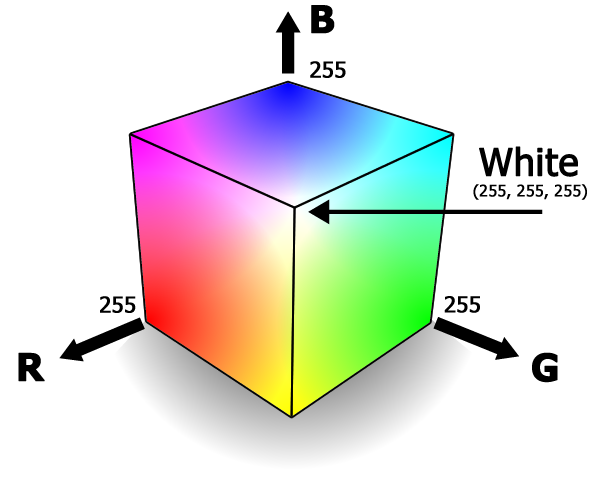
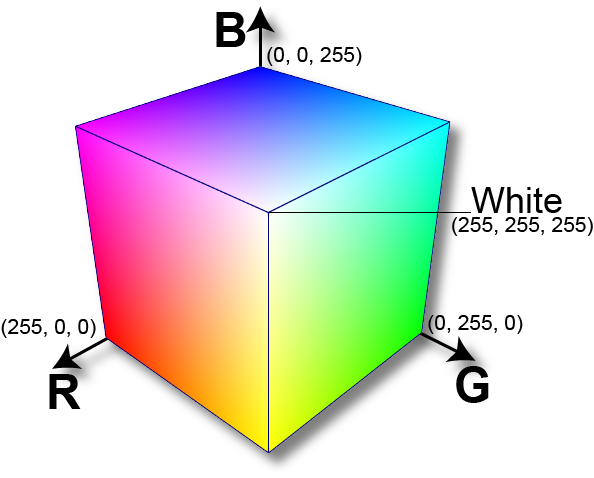
Update rgb image
Make so that it (probably) does not have to worry about rights.

diff --git a/_posts/2013-11-09-is-black-a-color.md b/_posts/2013-11-09-is-black-a-color.md
@@ -87,7 +87,7 @@ blue.
   <img src="/images/is-black-a-color/color-cube.png"
        alt="Color Cube"
        width="300"
-       height="240">
+       height="241">
   <figcaption>
     The RGB color space.
   </figcaption>
